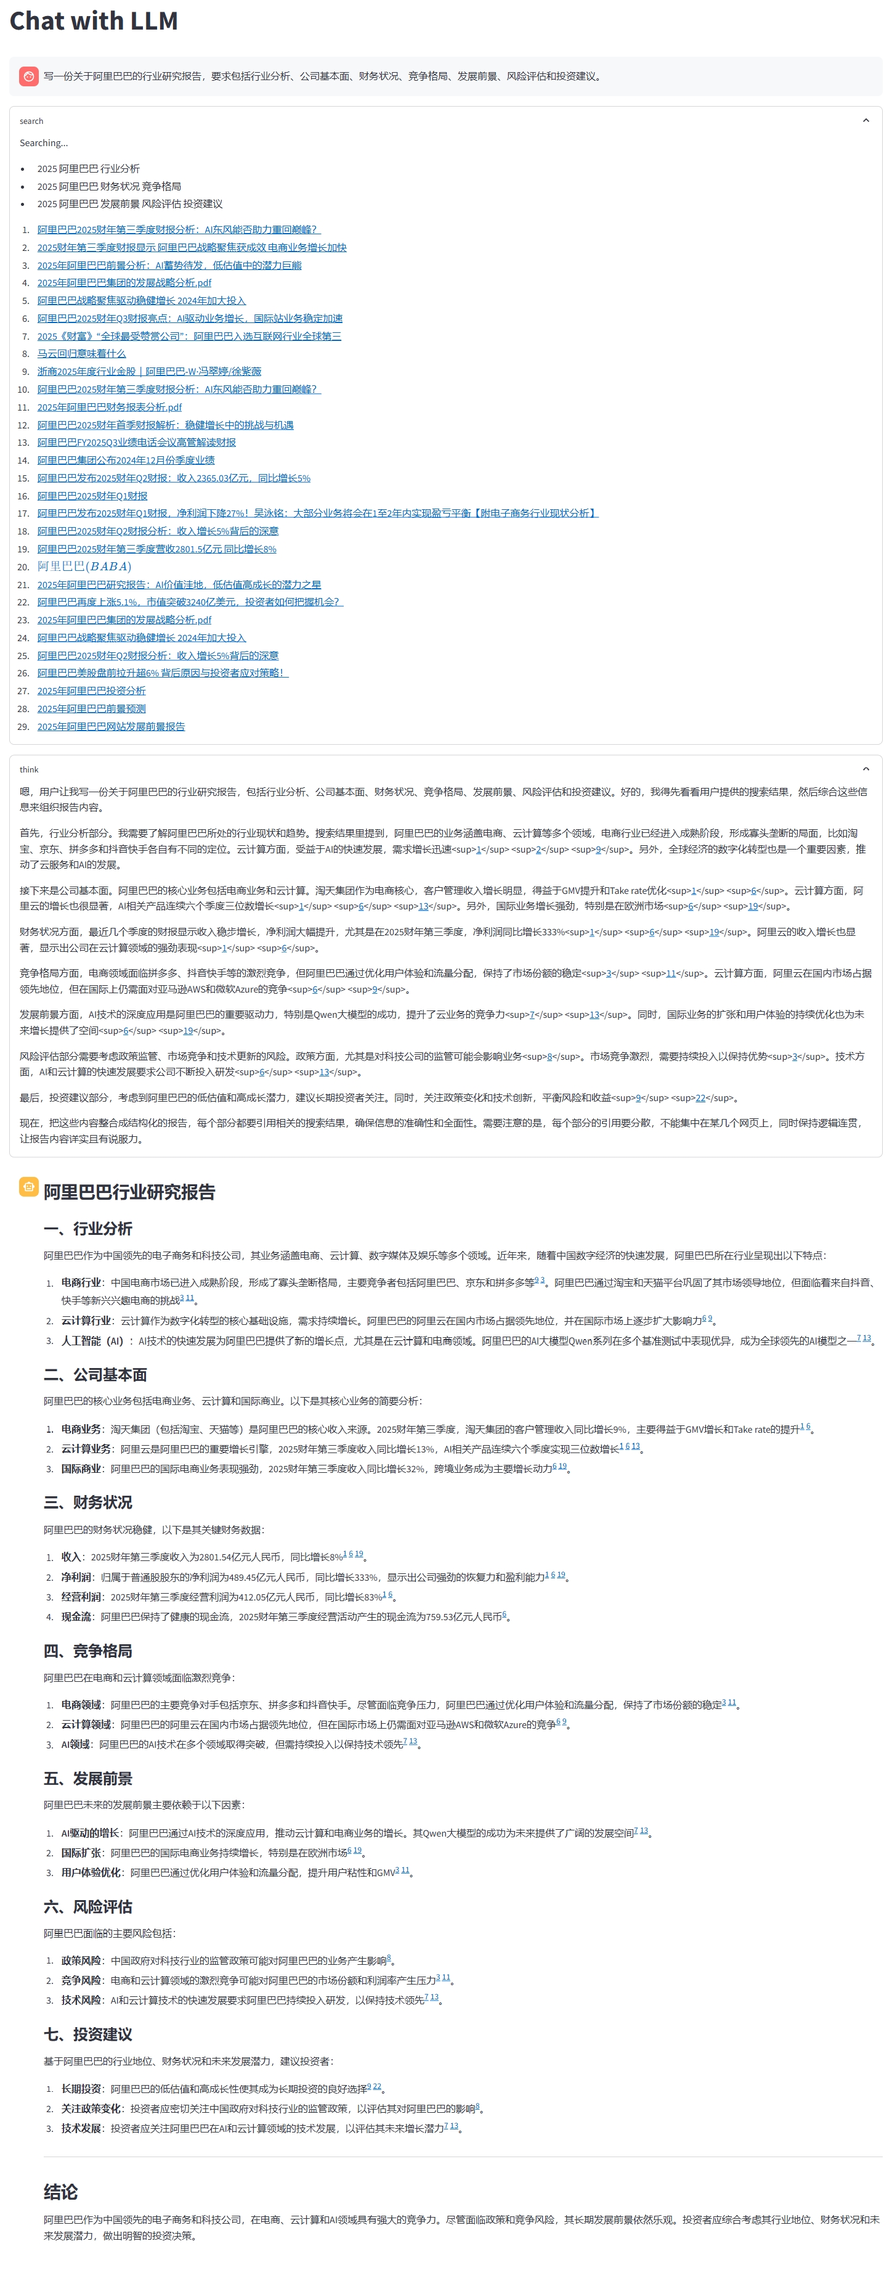
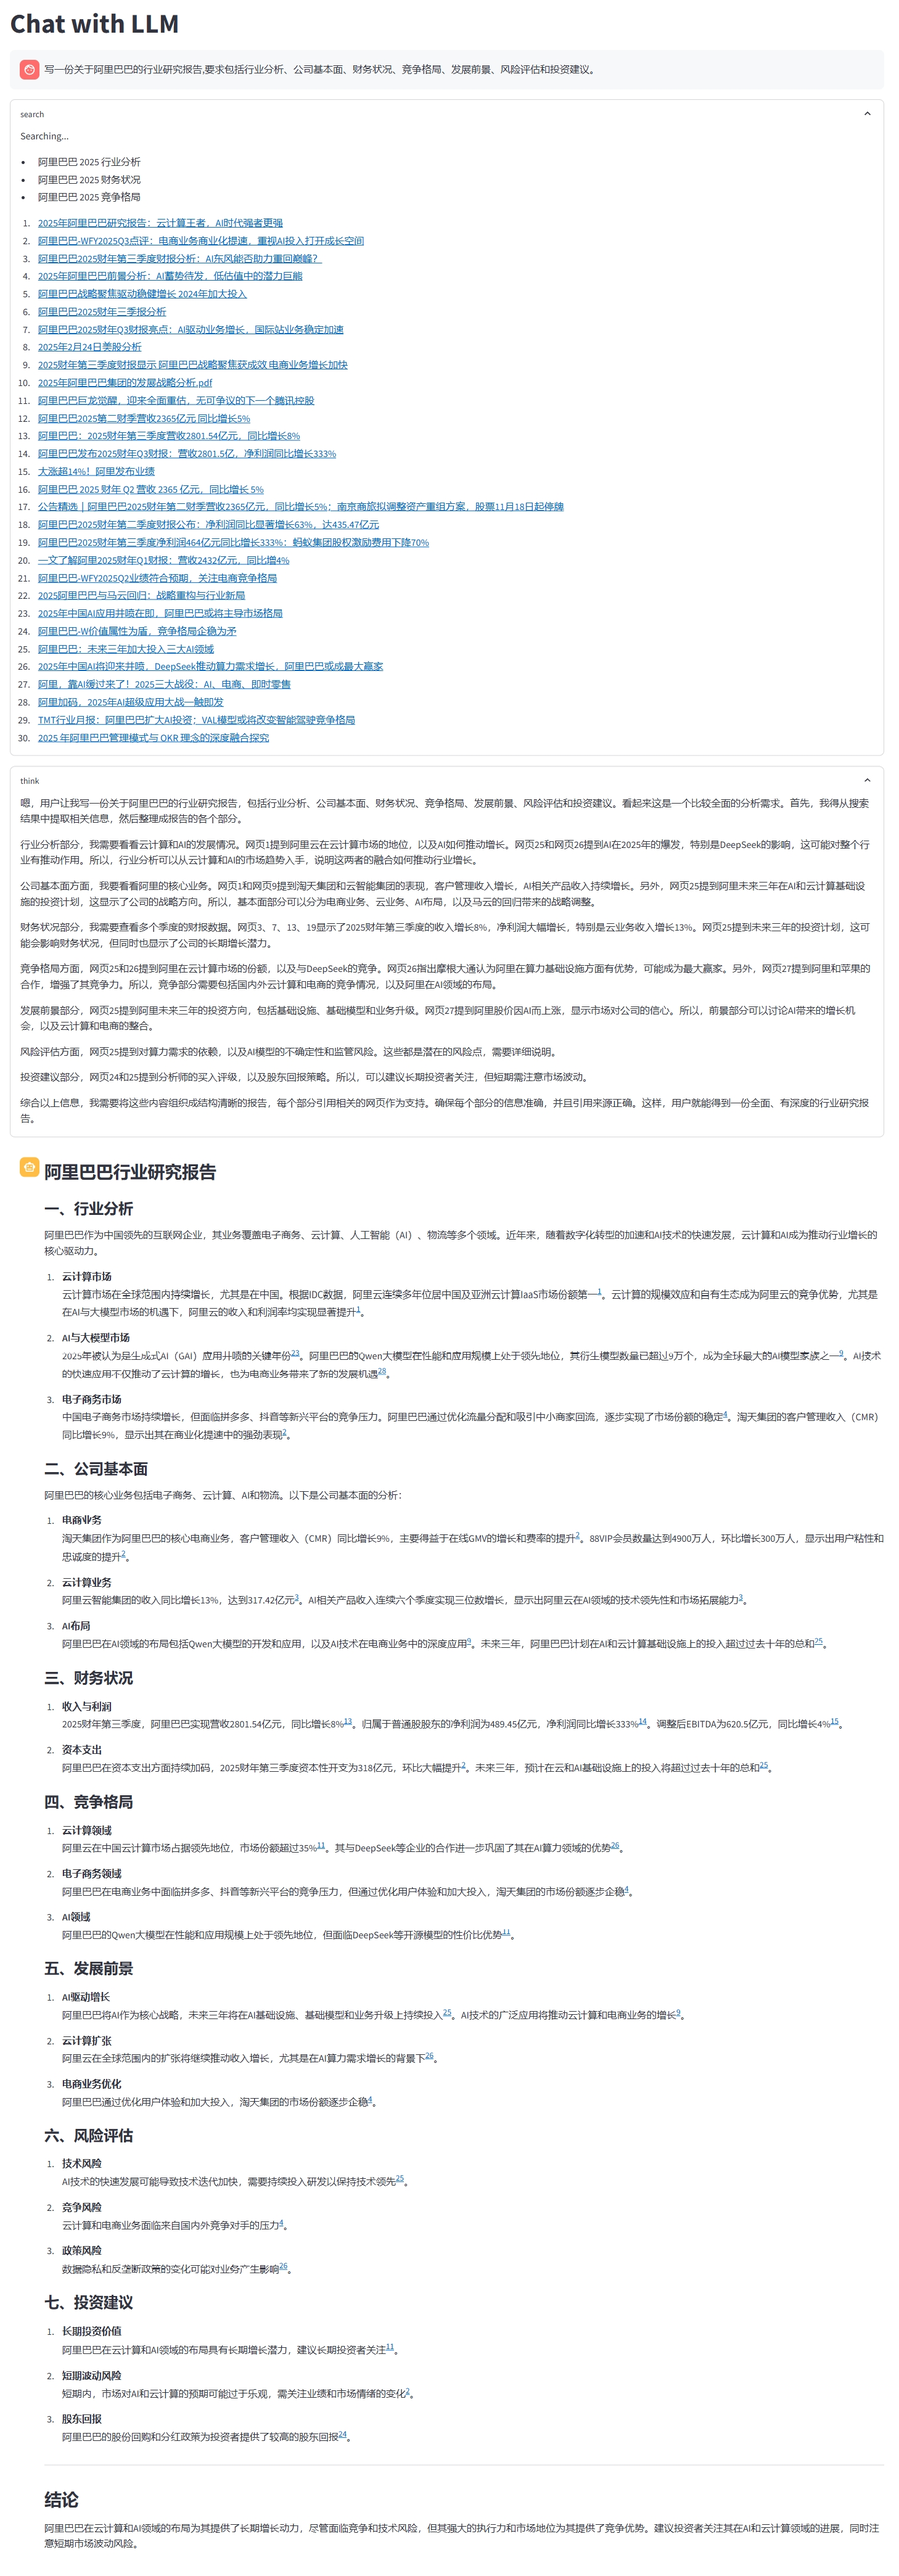
refactor(llm): 重构搜索结果展示和引用格式
- 更新搜索结果的展示格式，移除不必要的脚注标记
- 修改引用搜索结果的格式，使用超链接替代脚注
- 优化网页端的搜索结果展示，支持点击链接直接跳转
- 删除多余的 CSS 样式，简化代码结构

Changed region(s): [[0.0, 0.0, 0.9634, 0.9995], [0.4972, 0.9682, 0.9634, 0.9995], [0.6526, 0.7808, 0.7148, 0.8121]]

diff --git a/clients/llm/prompts.py b/clients/llm/prompts.py
@@ -62,12 +62,12 @@ FILTER_RESULTS_PROMPT = """请分析以下搜索结果，提取与查询"{query}
 
 GENERATE_ANSWER_WITH_SEARCH_PROMPT = """# 以下内容是基于用户发送的消息的搜索结果:
 {search_results}
-在我给你的搜索结果中，每个结果都是[webpage X begin]...[webpage X end]格式的，X代表每篇文章的数字索引。请在适当的情况下在句子末尾引用上下文。请按照引用编号<sup>[X](#footnoteX)</sup>的格式在答案中对应部分引用上下文。如果一句话源自多个上下文，请列出所有相关的引用编号，例如<sup>[3](#footnote3)</sup> <sup>[5](#footnote5)</sup>，多个引用编号之间用空格分隔，切记不要将引用集中在最后返回引用编号，而是在答案对应部分列出。
+在我给你的搜索结果中，每个结果都是[webpage X begin]{{"title":"...", "content": "...", "source": ""https://XXX""}}[webpage X end]格式的，X代表每篇文章的数字索引。请在适当的情况下在句子末尾引用上下文。请按照引用编号<sup><a href=source target="_blank">X</a></sup>的格式在答案中对应部分引用上下文。如果一句话源自多个上下文，请列出所有相关的引用编号，例如<sup><a href=source target="_blank">3</a></sup> <sup><a href=source target="_blank">5</a></sup>，多个引用编号之间用空格分隔，切记不要将引用集中在最后返回引用编号，而是在答案对应部分列出。
 在回答时，请注意以下几点：
 - 今天是{cur_date}。
 - 并非搜索结果的所有内容都与用户的问题密切相关，你需要结合问题，对搜索结果进行甄别、筛选。
 - 对于列举类的问题（如列举所有航班信息），尽量将答案控制在10个要点以内，并告诉用户可以查看搜索来源、获得完整信息。优先提供信息完整、最相关的列举项；如非必要，不要主动告诉用户搜索结果未提供的内容。
-- 对于创作类的问题（如写论文），请务必在正文的段落中引用对应的参考编号，例如<sup>[3](#footnote3)</sup> <sup>[5](#footnote5)</sup>，不能只在文章末尾引用。你需要解读并概括用户的题目要求，选择合适的格式，充分利用搜索结果并抽取重要信息，生成符合用户要求、极具思想深度、富有创造力与专业性的答案。你的创作篇幅需要尽可能延长，对于每一个要点的论述要推测用户的意图，给出尽可能多角度的回答要点，且务必信息量大、论述详尽。
+- 对于创作类的问题（如写论文），请务必在正文的段落中引用对应的参考编号，例如<sup><a href=source target="_blank">3</a></sup> <sup><a href=source target="_blank">5</a></sup>，不能只在文章末尾引用。你需要解读并概括用户的题目要求，选择合适的格式，充分利用搜索结果并抽取重要信息，生成符合用户要求、极具思想深度、富有创造力与专业性的答案。你的创作篇幅需要尽可能延长，对于每一个要点的论述要推测用户的意图，给出尽可能多角度的回答要点，且务必信息量大、论述详尽。
 - 如果回答很长，请尽量结构化、分段落总结。如果需要分点作答，尽量控制在5个点以内，并合并相关的内容。
 - 对于客观类的问答，如果问题的答案非常简短，可以适当补充一到两句相关信息，以丰富内容。
 - 你需要根据用户要求和回答内容选择合适、美观的回答格式，确保可读性强。

diff --git a/web_app.py b/web_app.py
@@ -32,7 +32,7 @@ async def handle_query(question: str, needs_crawler: bool, needs_filter: bool):
     async with aiohttp.ClientSession() as client:
         async with client.post("http://localhost:8000/api/v1/chat", json=data, timeout=None) as response:
             async for line in response.content:
-                chunk = re.sub(r"\r\n?$", "", line.decode("utf-8"))
+                chunk = re.sub(r"\r\n$", "", line.decode("utf-8"))
                 if not chunk:
                     continue
 
@@ -56,7 +56,7 @@ async def handle_query(question: str, needs_crawler: bool, needs_filter: bool):
                     search_placeholder.markdown(search_content, unsafe_allow_html=True)
                 elif is_reasoning:
                     reasoning_content += chunk
-                    reasoning_placeholder.markdown(reasoning_content)
+                    reasoning_placeholder.markdown(reasoning_content, unsafe_allow_html=True)
                 else:
                     content += chunk
                     output_placeholder.markdown(content, unsafe_allow_html=True)
@@ -89,29 +89,13 @@ def display_chat_history():
             with st.expander("search", expanded=True):
                 st.markdown(message["search"], unsafe_allow_html=True)
             with st.expander("think", expanded=True):
-                st.markdown(message["reasoning"])
+                st.markdown(message["reasoning"], unsafe_allow_html=True)
             with st.chat_message(name="assistant", avatar="assistant"):
                 st.markdown(message["content"], unsafe_allow_html=True)
 
 
 st.set_page_config(page_title="Chat with LLM", layout="wide")
 st.title("Chat with LLM")
-
-css = """
-<style>
-    a[id^="footnote"] {
-        display: block;
-        position: relative;
-        visibility: visible;
-        height: 0;
-        top: -60px;
-    }
-    html {
-        scroll-behavior: smooth;
-    }
-</style>
-"""
-st.markdown(css, unsafe_allow_html=True)
 
 needs_crawler, needs_filter = config_search_tool()
 

diff --git a/core/assistant.py b/core/assistant.py
@@ -225,7 +225,7 @@ class Assistant:
 
             search_results = await self._perform_search(search_decision["search_queries"])
             for i, result in enumerate(search_results, 1):
-                yield f'{i}. <a id="footnote{i}"></a> [{result.title}]({result.source})\n'
+                yield f"{i}. [{result.title}]({result.source})\n"
 
             yield "[/SEARCH]"
 
